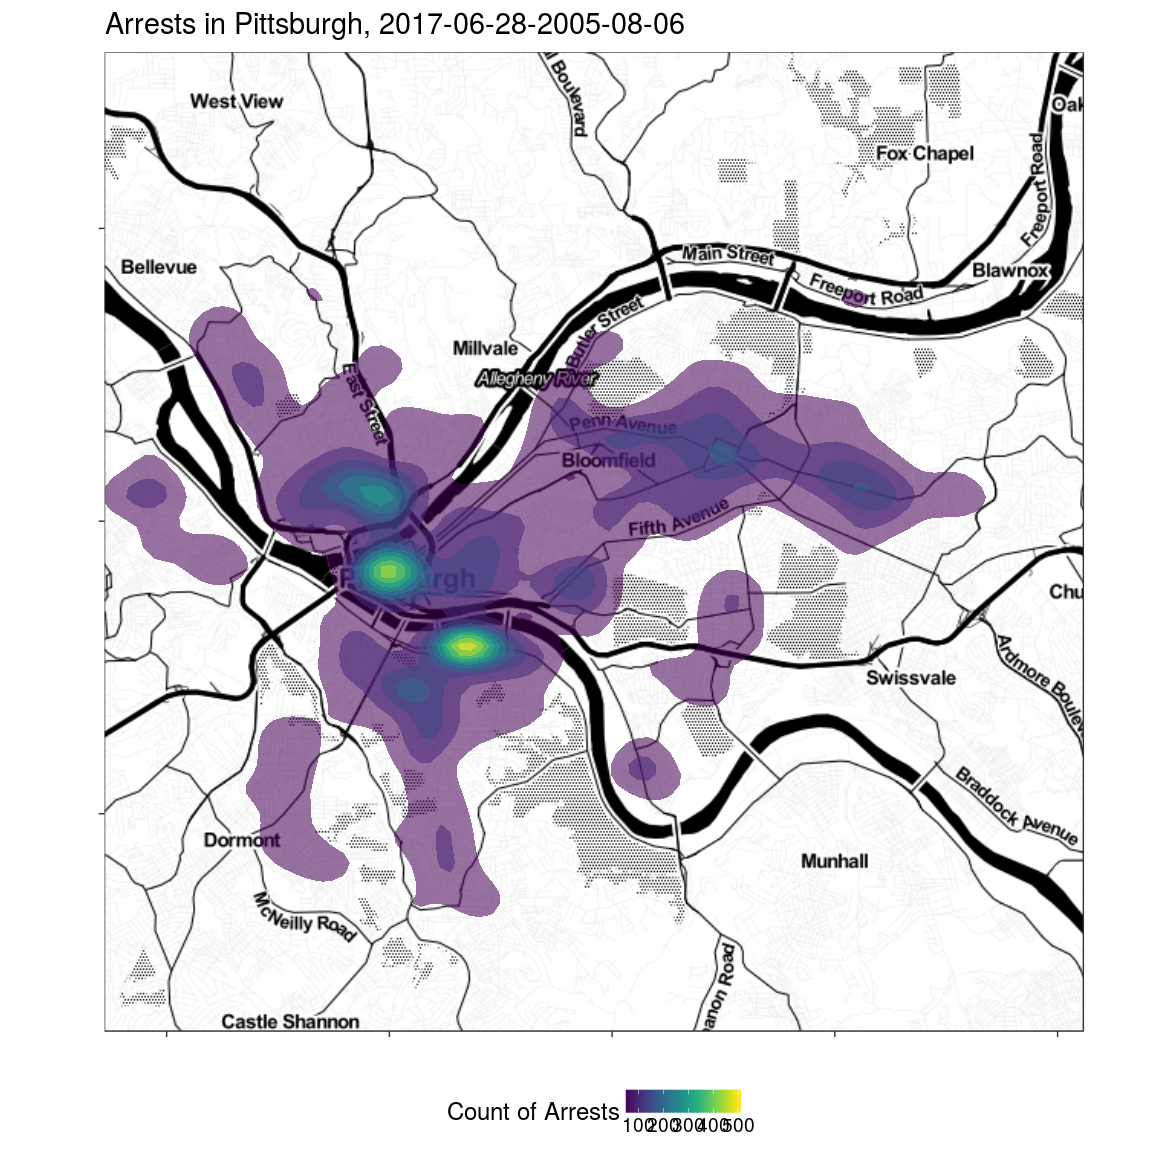
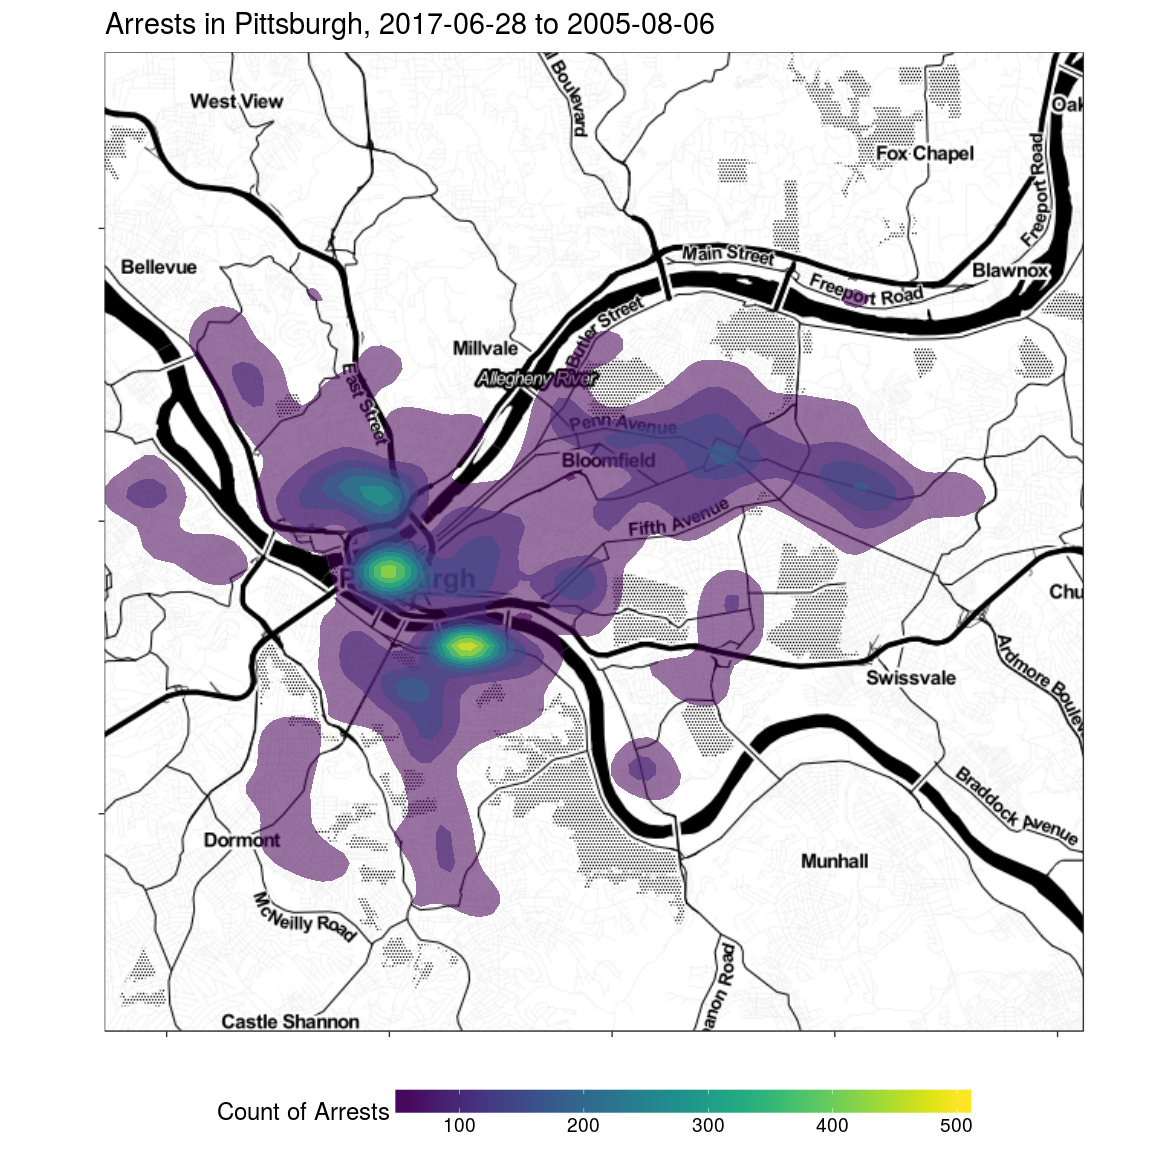
knitted file

Changed region(s): [[0.25, 0.9375, 0.8438, 1.0], [0.4688, 0.0, 0.625, 0.0312], [0.1875, 0.9375, 0.2188, 0.9688]]

diff --git a/README.md b/README.md
@@ -1,12 +1,98 @@
-README
-================
-Conor Tompkins
-2/17/2018
 
 pgh-crime
 =========
 
 This is a repo for analyzing crime data in Pittsburgh PA
+
+``` r
+knitr::opts_chunk$set(echo = TRUE)
+```
+
+``` r
+source("scripts/load_data_new.R")
+```
+
+    ## ── Attaching packages ───────────────────────────────────────────────────────────────────────────────── tidyverse 1.2.1 ──
+
+    ## ✔ ggplot2 2.2.1     ✔ purrr   0.2.4
+    ## ✔ tibble  1.4.2     ✔ dplyr   0.7.4
+    ## ✔ tidyr   0.8.0     ✔ stringr 1.2.0
+    ## ✔ readr   1.1.1     ✔ forcats 0.2.0
+
+    ## ── Conflicts ──────────────────────────────────────────────────────────────────────────────────── tidyverse_conflicts() ──
+    ## ✖ dplyr::filter() masks stats::filter()
+    ## ✖ dplyr::lag()    masks stats::lag()
+
+    ## 
+    ## Attaching package: 'lubridate'
+
+    ## The following object is masked from 'package:base':
+    ## 
+    ##     date
+
+    ## Parsed with column specification:
+    ## cols(
+    ##   `_id` = col_integer(),
+    ##   PK = col_integer(),
+    ##   CCR = col_integer(),
+    ##   HIERARCHY = col_integer(),
+    ##   INCIDENTTIME = col_datetime(format = ""),
+    ##   INCIDENTLOCATION = col_character(),
+    ##   CLEAREDFLAG = col_character(),
+    ##   INCIDENTNEIGHBORHOOD = col_character(),
+    ##   INCIDENTZONE = col_character(),
+    ##   INCIDENTHIERARCHYDESC = col_character(),
+    ##   OFFENSES = col_character(),
+    ##   INCIDENTTRACT = col_integer(),
+    ##   COUNCIL_DISTRICT = col_integer(),
+    ##   PUBLIC_WORKS_DIVISION = col_integer(),
+    ##   X = col_double(),
+    ##   Y = col_double()
+    ## )
+
+    ## Warning in rbind(names(probs), probs_f): number of columns of result is not
+    ## a multiple of vector length (arg 2)
+
+    ## Warning: 1 parsing failure.
+    ## row # A tibble: 1 x 5 col     row col   expected               actual file                           expected   <int> <chr> <chr>                  <chr>  <chr>                          actual 1 65694 CCR   no trailing characters .19743 'data/pittsburgh_crime_UCR_co… file # A tibble: 1 x 5
+
+    ## Parsed with column specification:
+    ## cols(
+    ##   hierarchy = col_integer(),
+    ##   hierarchy_description = col_character()
+    ## )
+
+    ## Joining, by = "hierarchy"
+
+``` r
+library(viridis)
+```
+
+    ## Loading required package: viridisLite
+
+``` r
+library(ggmap)
+library(scales)
+```
+
+    ## 
+    ## Attaching package: 'scales'
+
+    ## The following object is masked from 'package:viridis':
+    ## 
+    ##     viridis_pal
+
+    ## The following object is masked from 'package:purrr':
+    ## 
+    ##     discard
+
+    ## The following object is masked from 'package:readr':
+    ## 
+    ##     col_factor
+
+``` r
+theme_set(theme_bw(base_size = 18))
+```
 
 ``` r
 city_map <-  get_map("North Oakland, Pittsburgh, PA", 
@@ -37,12 +123,13 @@ city_map +
   scale_fill_viridis() +
   guides(alpha = FALSE,
          fill = guide_colorbar("Count of Arrests")) +
-  labs(title = str_c("Arrests in Pittsburgh, ", date_first, "-", date_last),
+  labs(title = str_c("Arrests in Pittsburgh, ", date_first, " to ", date_last),
        x = "",
        y = "") +
   theme(legend.position = "bottom",
         legend.direction = "horizontal",
-        axis.text = element_blank())
+        axis.text = element_blank(),
+        legend.key.width = unit(.1, "npc"))
 ```
 
 ![](README_files/figure-markdown_github/plot_crime-1.png)
